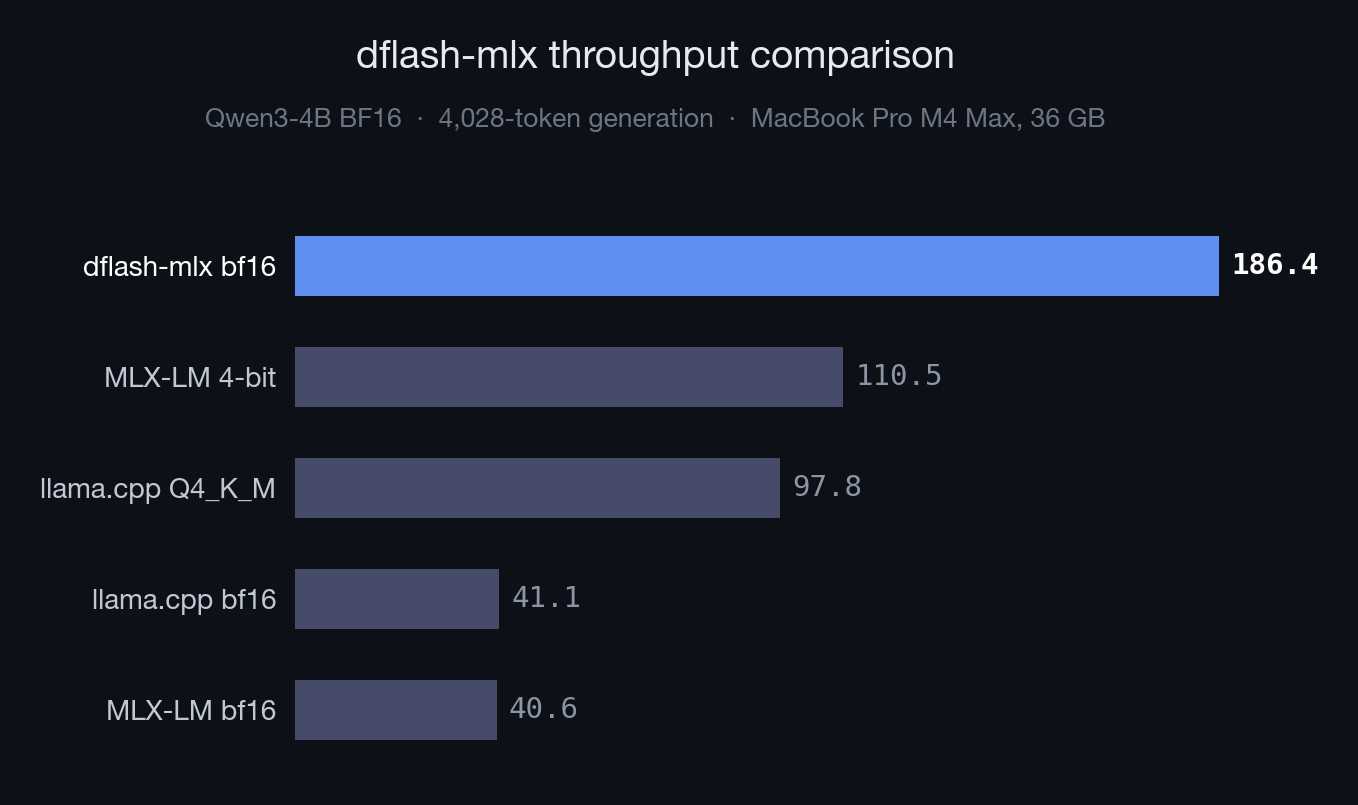
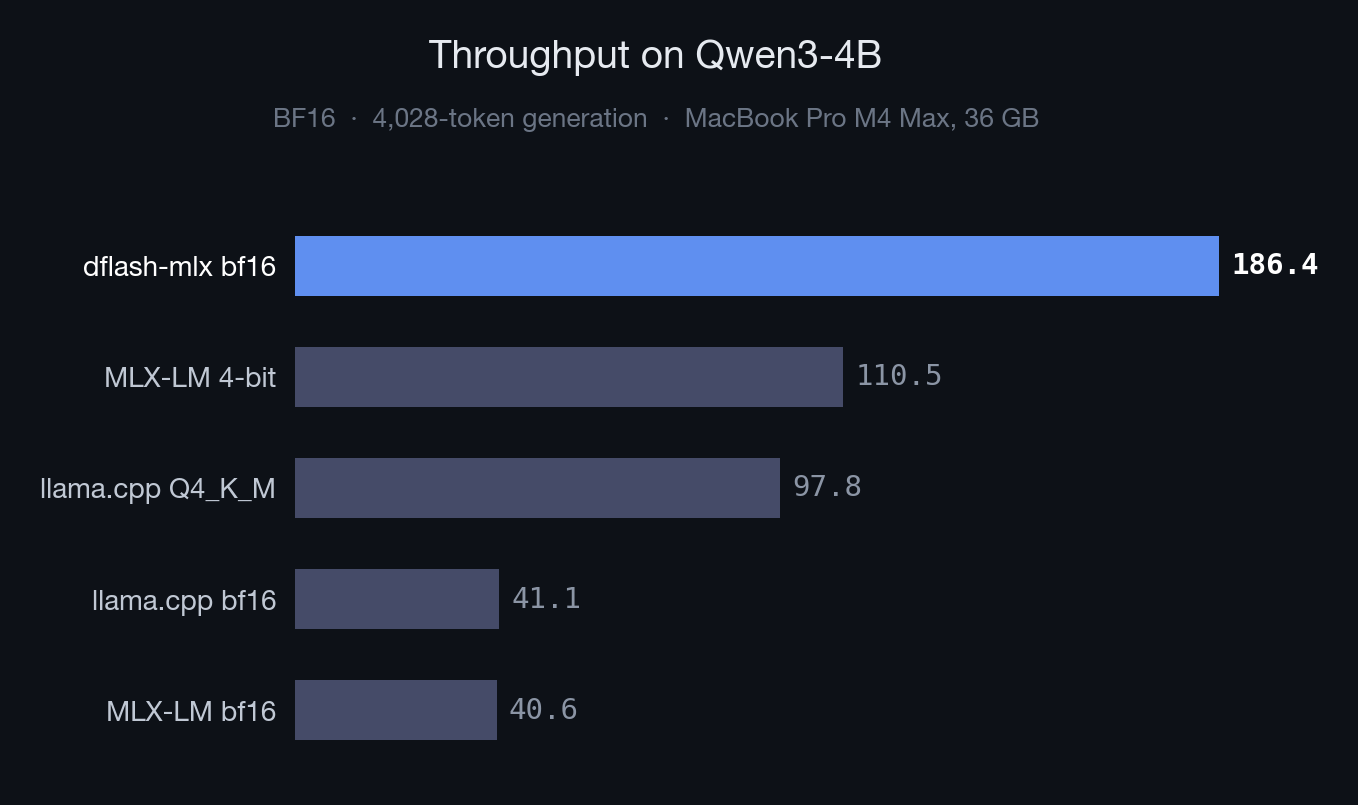
Chart title: Throughput on Qwen3-4B

diff --git a/scripts/generate_benchmark_chart.py b/scripts/generate_benchmark_chart.py
@@ -70,7 +70,7 @@ ax.tick_params(left=False, bottom=False)
 fig.text(
     0.5,
     0.95,
-    "dflash-mlx throughput comparison",
+    "Throughput on Qwen3-4B",
     fontsize=14,
     fontweight="bold",
     color="#e6eaf0",
@@ -79,7 +79,7 @@ fig.text(
 fig.text(
     0.5,
     0.88,
-    "Qwen3-4B BF16  \u00b7  4,028-token generation  \u00b7  MacBook Pro M4 Max, 36 GB",
+    "BF16  \u00b7  4,028-token generation  \u00b7  MacBook Pro M4 Max, 36 GB",
     fontsize=9.5,
     color="#6b7585",
     ha="center",
